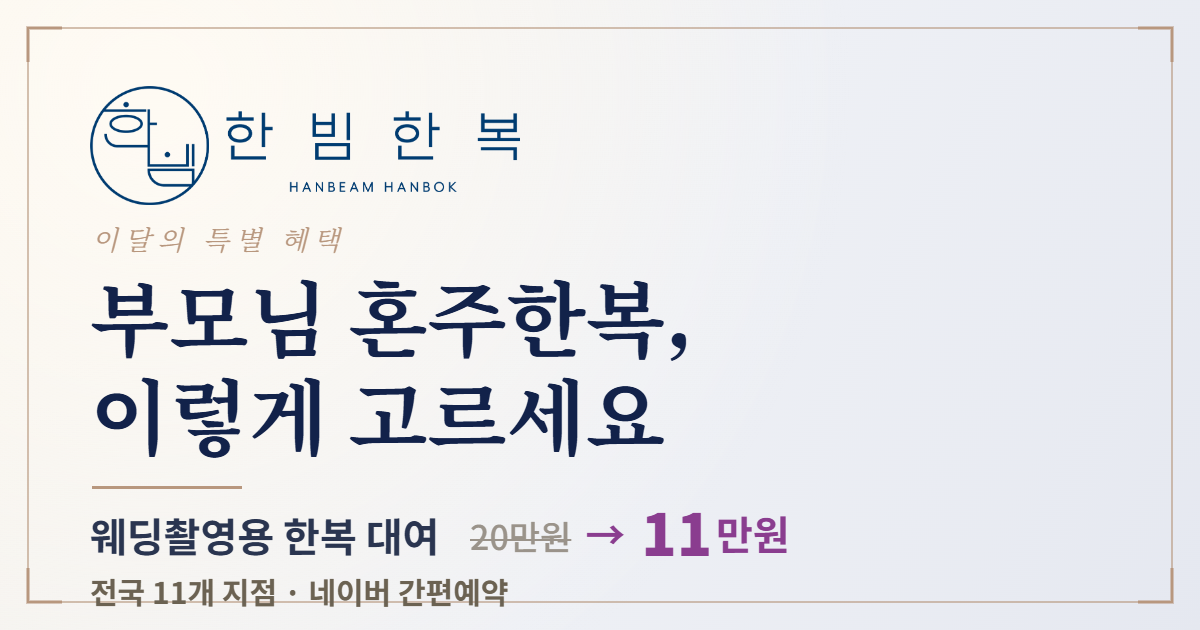
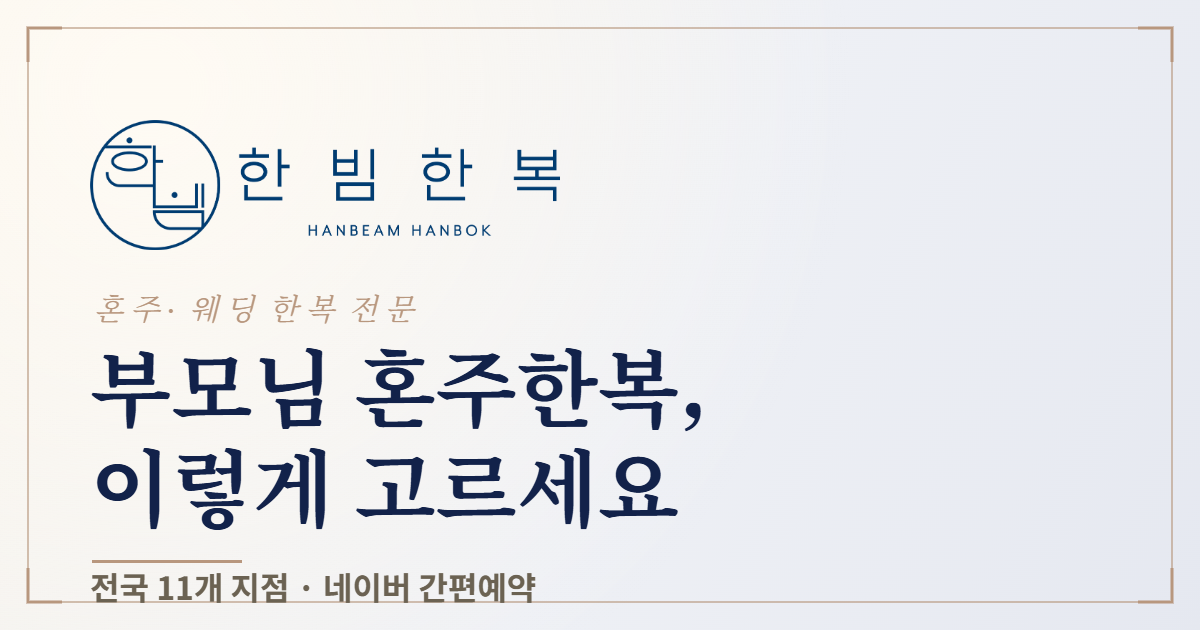
Add files via upload

diff --git a/index.html b/index.html
@@ -4,19 +4,19 @@
 <meta charset="utf-8">
 <meta name="viewport" content="width=device-width, initial-scale=1">
 <title>한빔한복 · 혼주한복 · 웨딩한복 예약센터</title>
-<meta name="description" content="부모님 혼주한복부터 웨딩한복까지. 웨딩촬영용 한복 대여 11만원, 무료 피팅 · 전국 11개 지점 네이버 간편예약.">
+<meta name="description" content="부모님 혼주한복부터 웨딩한복까지. 혼주·웨딩 한복 전문 · 전국 11개 지점 네이버 간편예약.">
 <!-- 공유 미리보기(카톡/문자/SNS) -->
 <meta property="og:type" content="website">
 <meta property="og:site_name" content="한빔한복">
 <meta property="og:title" content="한빔한복 · 혼주/웨딩 한복 예약센터">
-<meta property="og:description" content="부모님 혼주한복 이렇게 고르세요 · 웨딩촬영용 대여 11만원 · 전국 11개 지점 네이버 간편예약">
+<meta property="og:description" content="부모님 혼주한복 이렇게 고르세요 · 혼주·웨딩 한복 전문 · 전국 11개 지점 네이버 간편예약">
 <meta property="og:image" content="https://hbland0705.vercel.app/assets/og-cover.png">
 <meta property="og:image:width" content="1200">
 <meta property="og:image:height" content="630">
 <meta property="og:url" content="https://hbland0705.vercel.app/">
 <meta name="twitter:card" content="summary_large_image">
 <meta name="twitter:title" content="한빔한복 · 혼주/웨딩 한복 예약센터">
-<meta name="twitter:description" content="웨딩촬영용 한복 대여 11만원 · 전국 11개 지점 네이버 간편예약">
+<meta name="twitter:description" content="혼주·웨딩 한복 전문 · 전국 11개 지점 네이버 간편예약">
 <meta name="twitter:image" content="https://hbland0705.vercel.app/assets/og-cover.png">
 <link rel="icon" type="image/png" href="assets/logo.png">
 <script src="./support.js"></script>